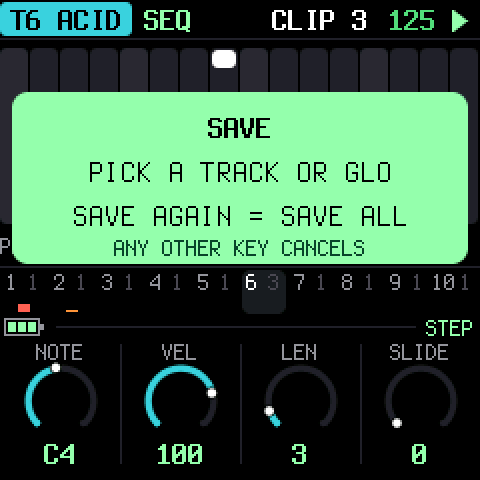
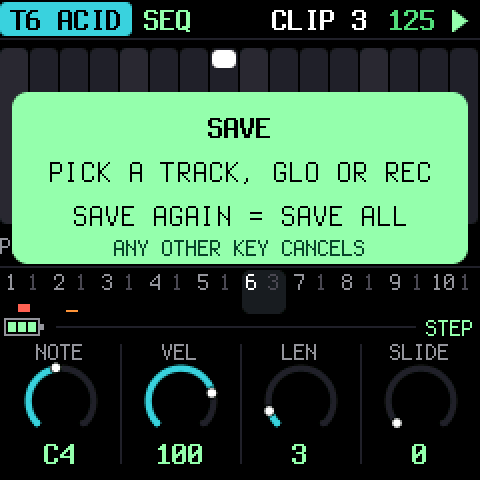
release 0.3-beta: release notes and screenshots

Changed region(s): [[0.3438, 0.3125, 0.875, 0.4062], [0.0938, 0.3125, 0.3125, 0.375]]

diff --git a/docs/NEW.md b/docs/NEW.md
@@ -3,6 +3,14 @@
 The newest version first. Install it with the [web installer](../install/); the
 [manual](../#manual) covers everything in detail.
 
+## 0.3 beta
+
+### Highlights
+- **Sixty-four clips per track**, in four banks of sixteen: OCT- and OCT+ on HOME move between the banks.
+- **Clip menu:** hold a clip key for about half a second to copy the track's clip into it, or to empty it.
+- **Song mode** (CLIPS, KNOB 4): a track plays its clips one after another, from the clip it is on. LOOP starts again; ONE SHOT stops at the first empty clip.
+- **Capture:** while a track plays, the notes you play on ARP or REC are kept. SAVE, then REC, writes them into the clip on screen and saves it.
+
 ## 0.1 beta
 
 The first public version of TRIBE, a fork of [X0X](https://github.com/charlesvestal/fm1-x0x) that
